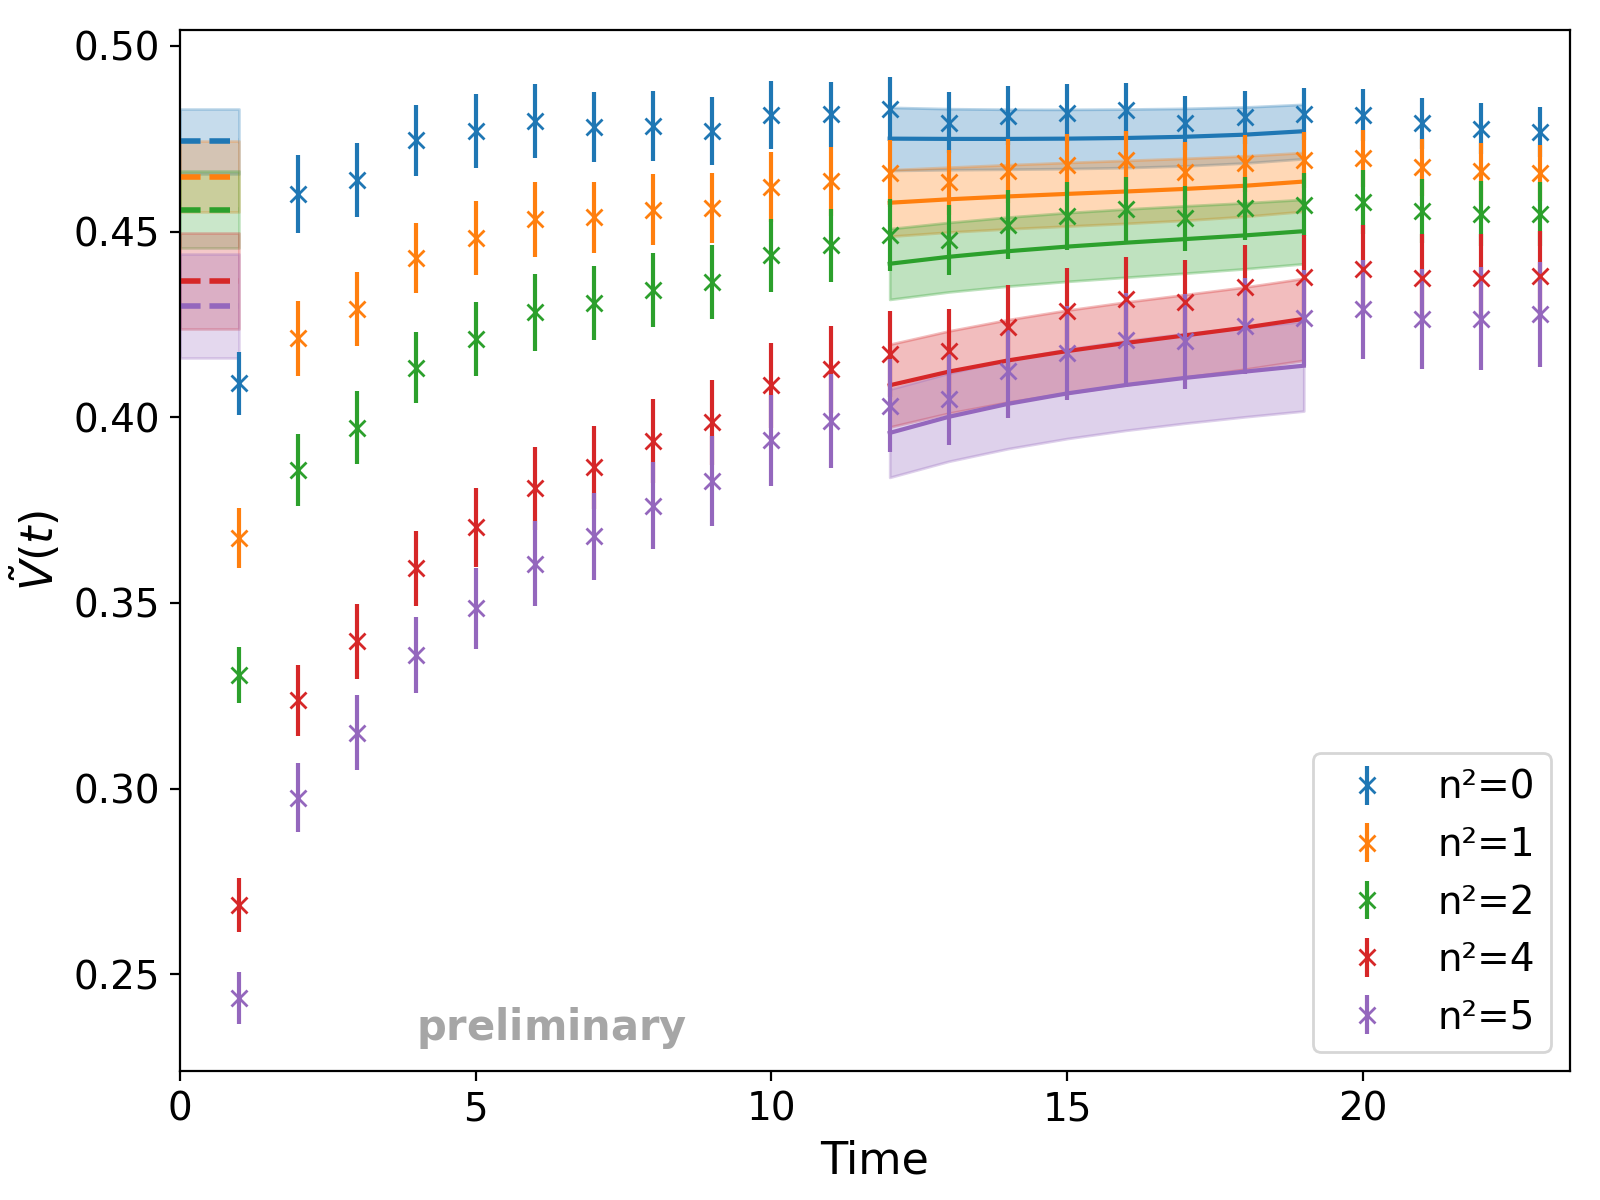
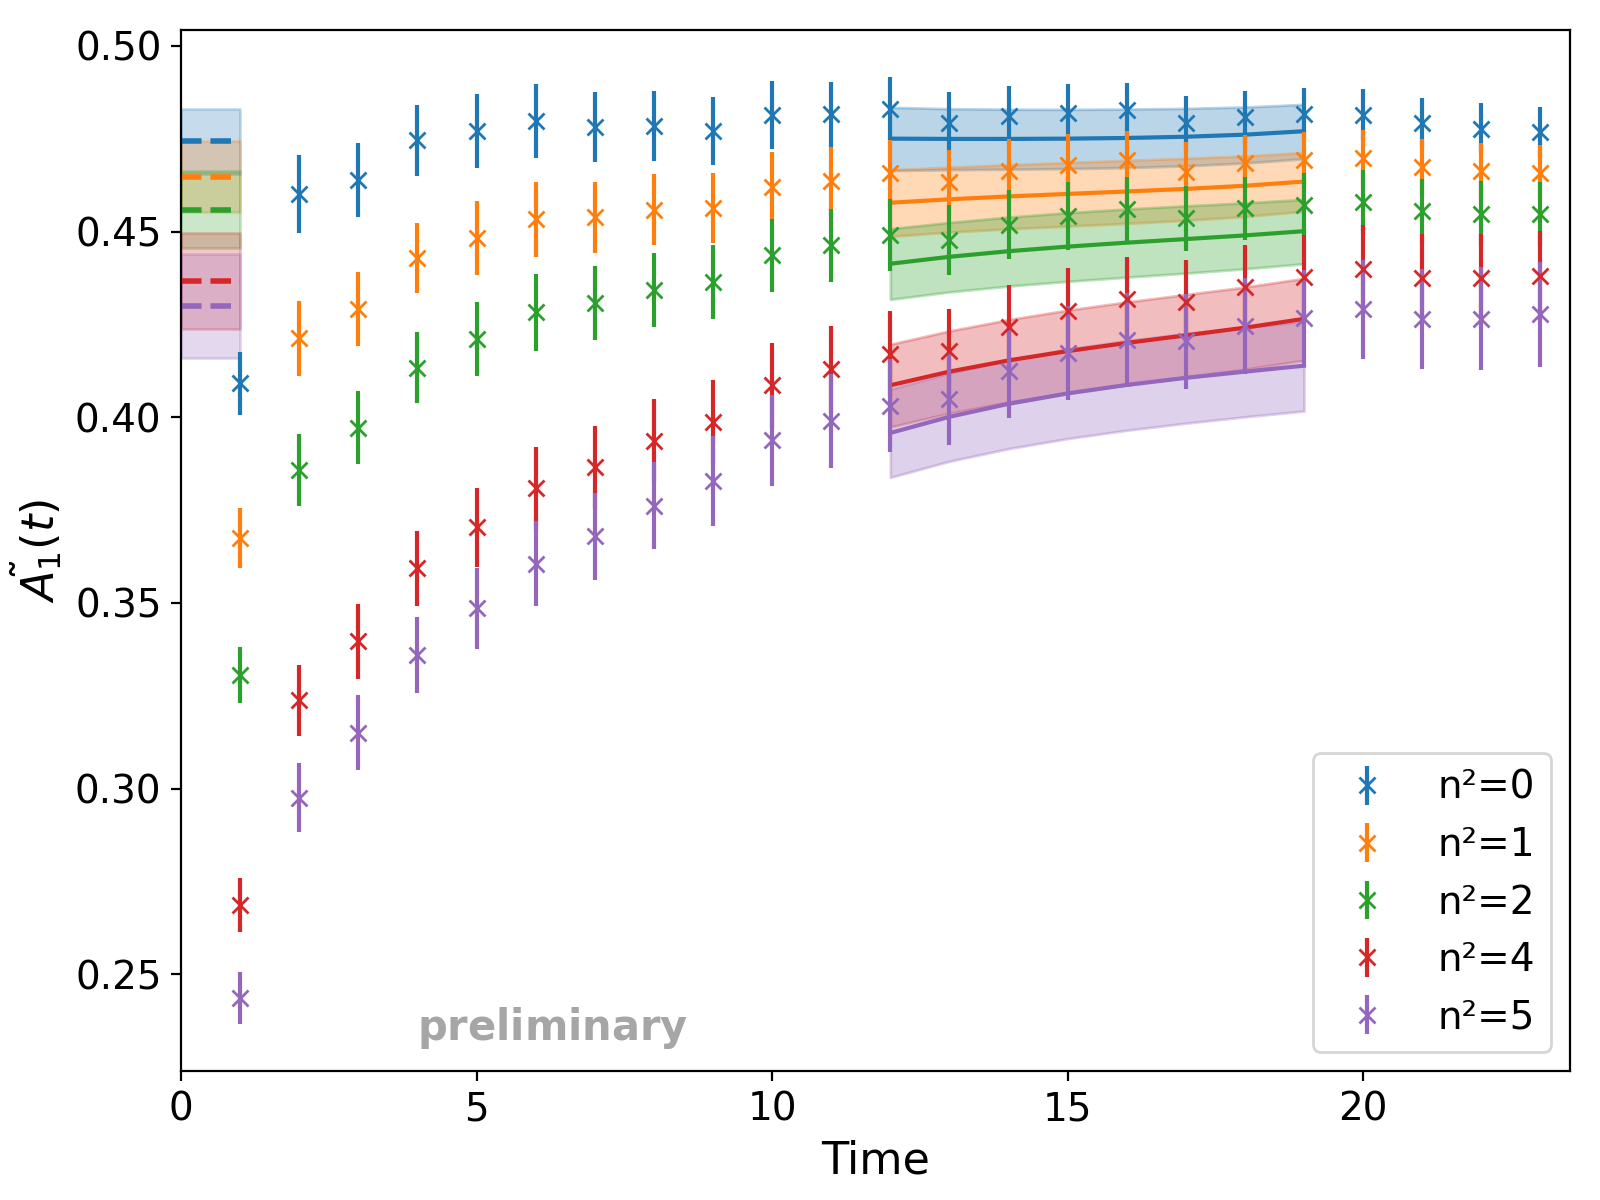
Added Combined excited

diff --git a/Code/Plot-Excited-Combined.py b/Code/Plot-Excited-Combined.py
@@ -192,7 +192,9 @@ def plot_all_t_eq30(
     plt.xlabel("Time", fontsize=16)
     plt.xticks(np.arange(0, int(max(t_all)) + 1, 5))  # force integer x-ticks
     
-    plt.ylabel(r"$\tilde{V}(t)$", fontsize=16)
+    #plt.ylabel(r"$\tilde{V}(t)$", fontsize=16)
+    #plt.ylabel(r"$\tilde{A_0}(t)$", fontsize=16)
+    plt.ylabel(r"$\tilde{A_1}(t)$", fontsize=16)
     #plt.ylim(0.05, 0.3)
     #plt.ylim(0.2,0.8)
     #plt.ylim(0.3,1.2)
